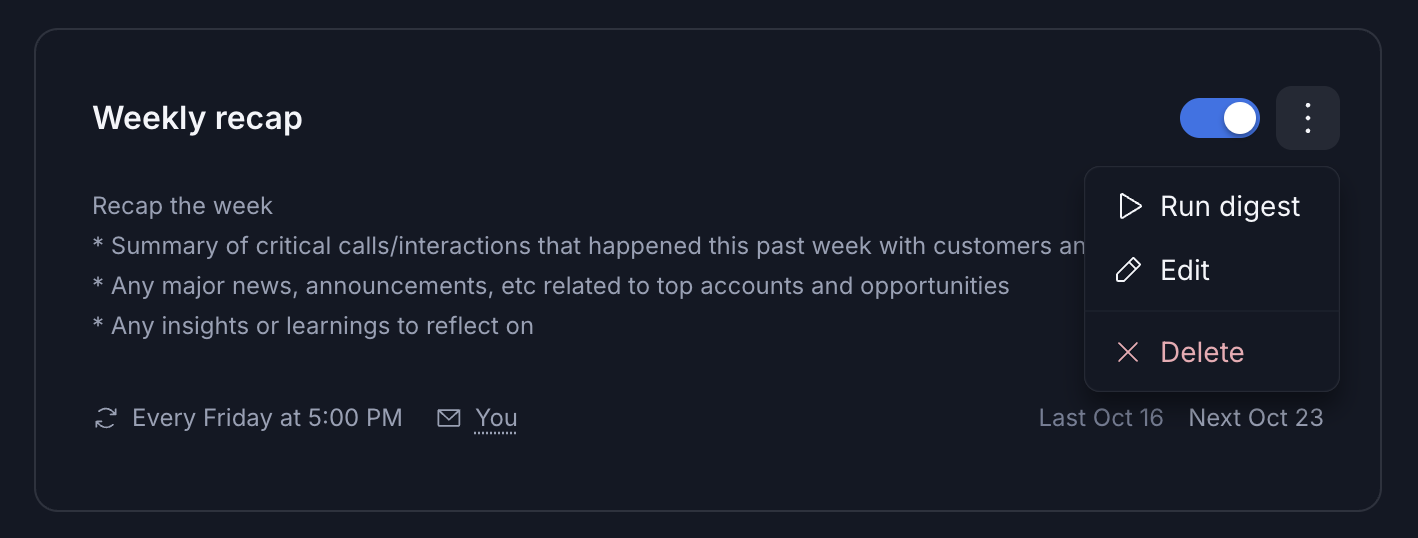
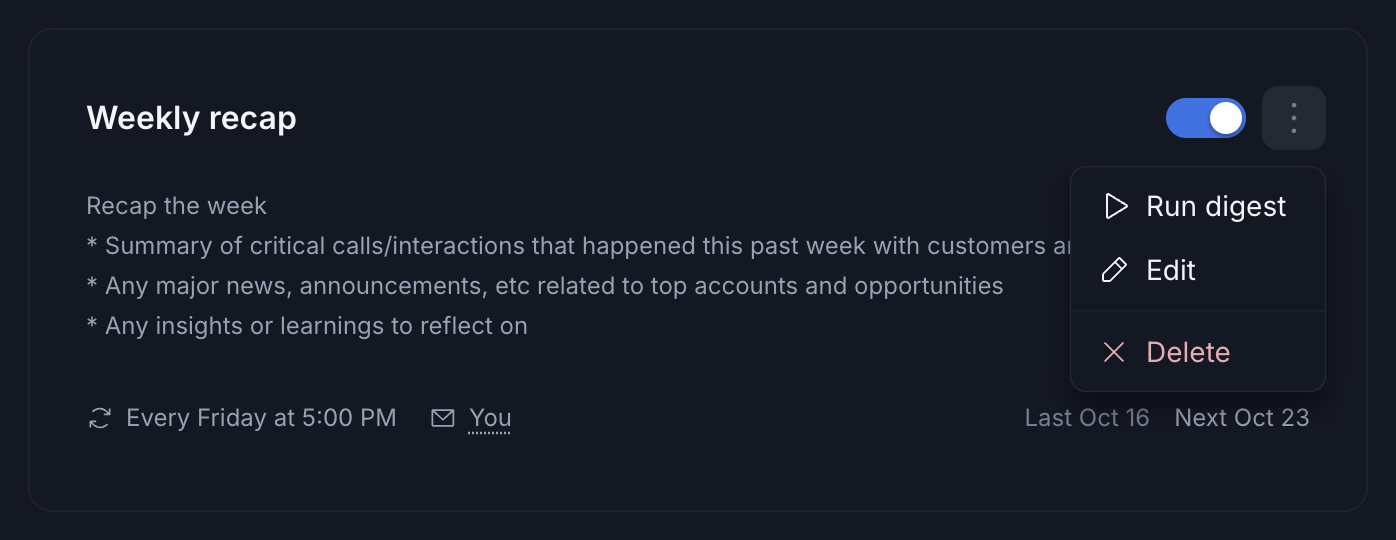
Digests: retake the card menu screenshot at guide settings
Captured at 2x from an 860 px viewport so the card is 670 px wide, cropped
with an even 14 px margin. Guide gains the agent capture method.

Claude-Session: https://claude.ai/code/session_01KeBJ57Xz15hQgbCemPA1Cd

diff --git a/SCREENSHOTS.md b/SCREENSHOTS.md
@@ -30,6 +30,15 @@ All sizes are the **viewport** (the page area, not the browser window) in CSS pi
 - **CleanShot:** use region capture (⌘⇧4, then drag). Window capture (⌘⇧4, then Space) adds 240 px of wallpaper on every side, so use it only when the whole window is the point.
 - **Chrome:** collapse the vertical tab sidebar while capturing. If it's open, it takes about 240 px, so window width = viewport + 240. Check the viewport with the ruler: https://claude.ai/artifact/9hjDA6WbugYUp5a1N3Z2DX. Inside the artifact viewer it reads a little narrower than the real viewport.
 
+### Capturing as an agent (Claude in Chrome)
+
+The Chrome tool's own screenshots are 1×, so don't use them in the docs. Instead:
+
+1. Keep the tab in its own window and in front. A background tab reports a stale 850 × 1241.
+2. Resize the window to the target viewport plus the interface (outer minus inner size). Then measure the subject with `getBoundingClientRect()` and adjust until it's 650–700 px wide.
+3. Find the window's ID (CGWindowList, matched on `screenX`/`screenY`/`outerWidth`/`outerHeight`) and run `screencapture -x -o -l<id> out.png`. That captures the window at 2× with no shadow, even if something overlaps it.
+4. Crop: the page starts at (outerWidth − innerWidth, outerHeight − innerHeight) inside the window. Multiply everything by 2 and leave a 14 px margin (CSS) around the subject. Check the edges for a neighbouring element's border.
+
 ## 4. Highlights
 
 Rarely needed. A good crop usually does the job.
@@ -62,5 +71,5 @@ The leading option is a dimmed aurora background on a fixed-width canvas. It kee
 
 ## Open items on this branch
 
-- **Digests** (`features/digests.mdx`): done, except retaking `digest-card-menu-10-20-26.png` (a rough hand crop) at the final capture settings. `edit-digest-10-16-26.png` is no longer used.
+- **Digests** (`features/digests.mdx`): done. `digest-card-menu-10-20-26.png` was retaken at an 860 px viewport (card 670 px). `edit-digest-10-16-26.png` is no longer used.
 - **Consistency pass** over every Settings page: bold `>` path format, and captions as full sentences.
